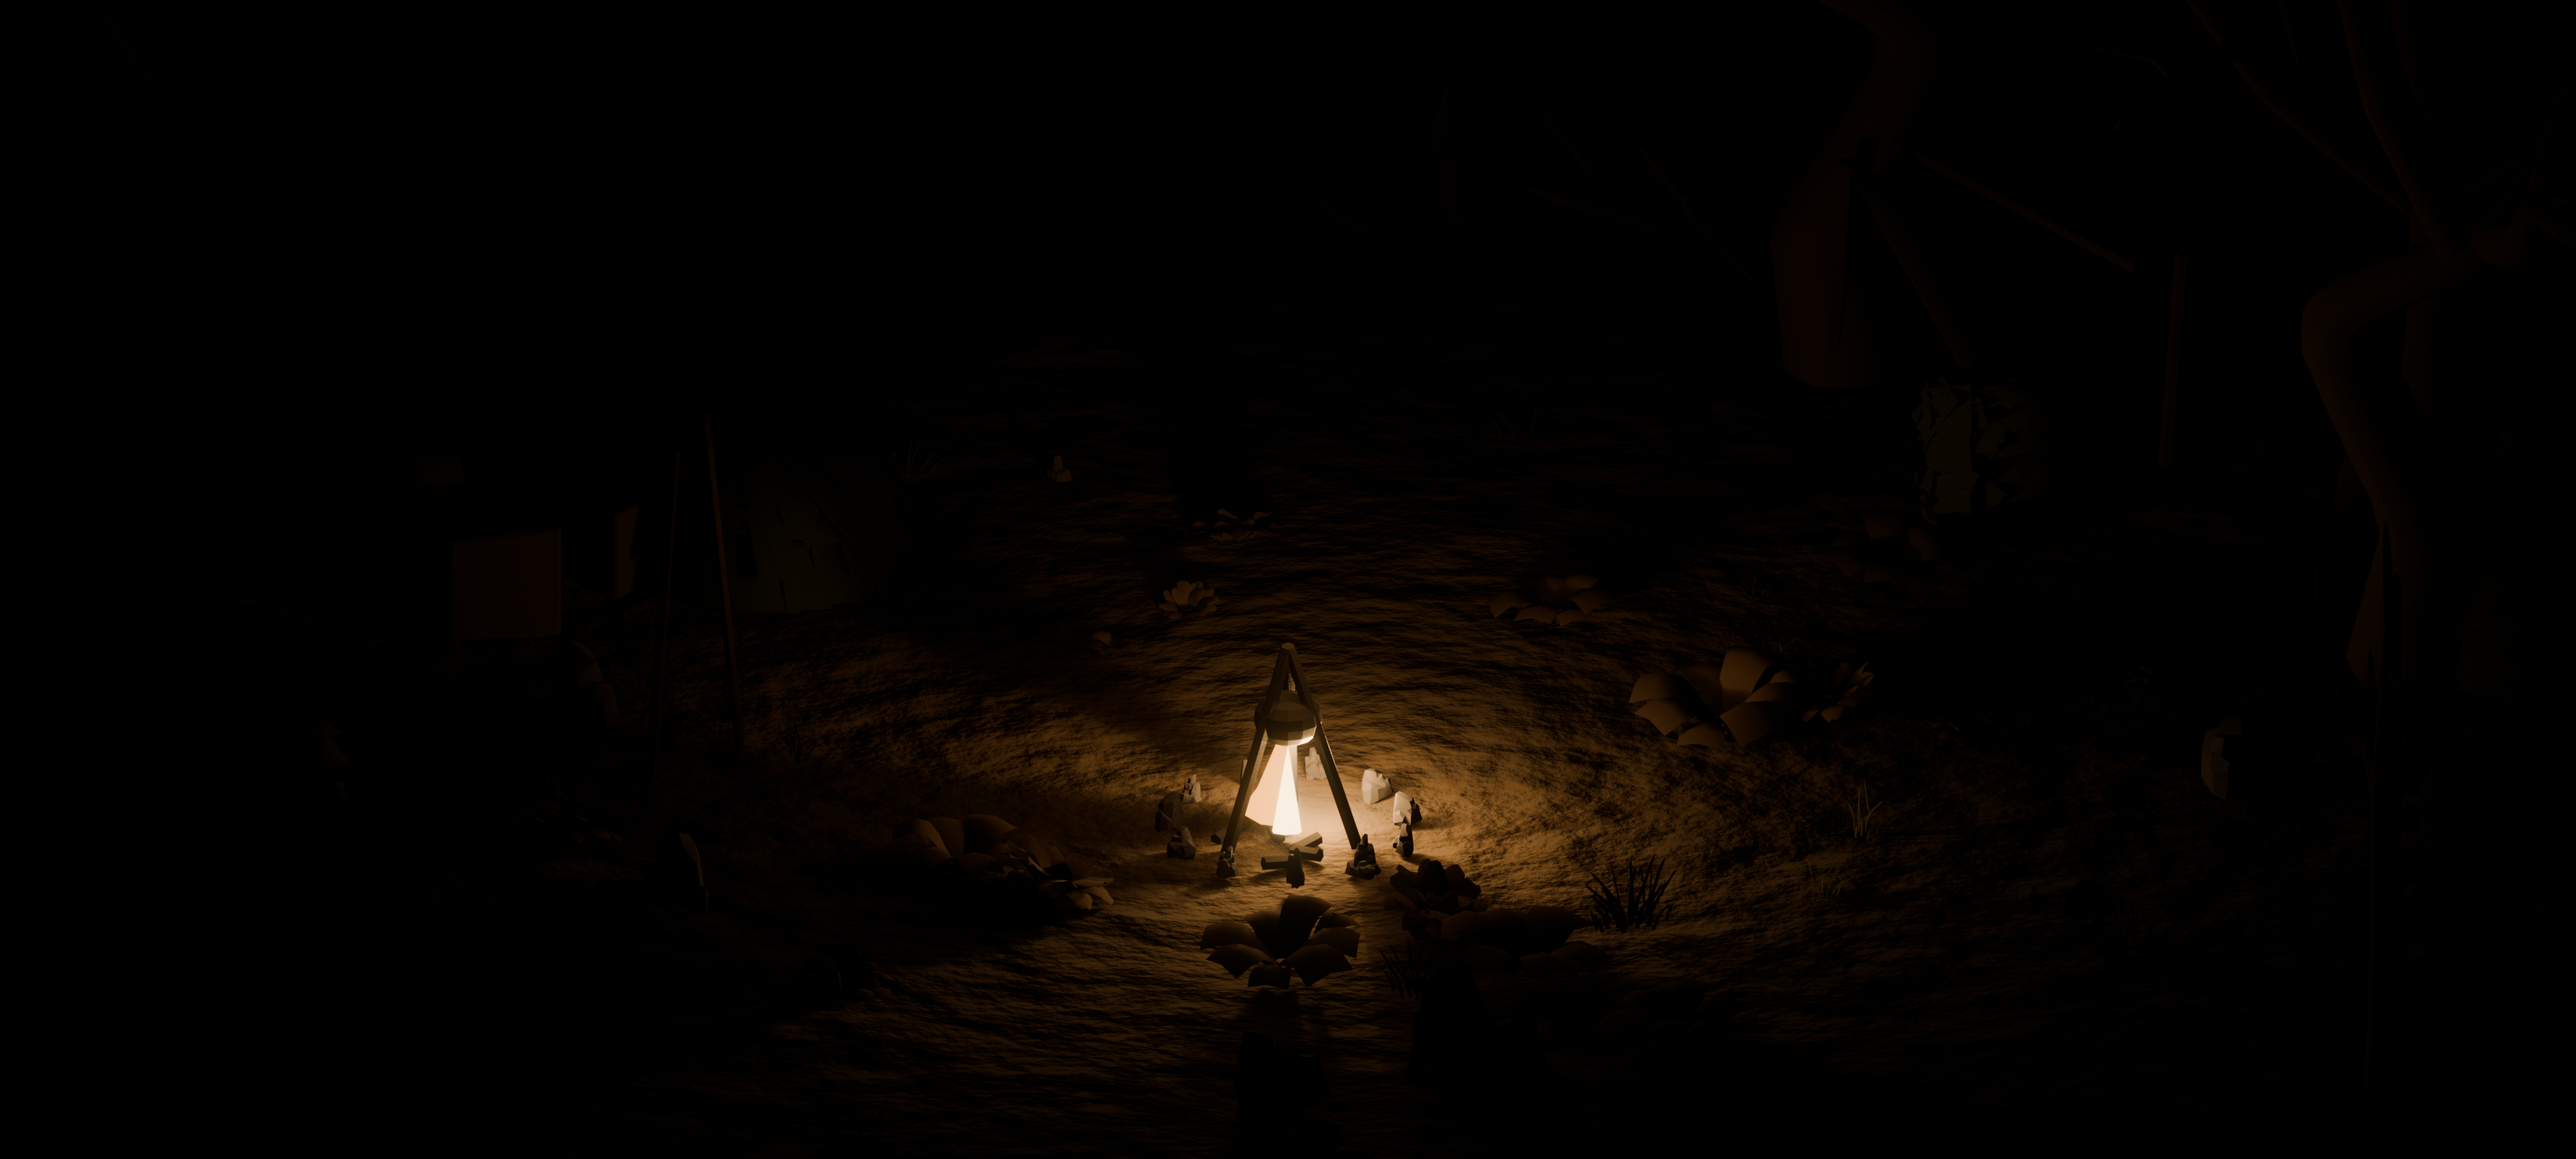
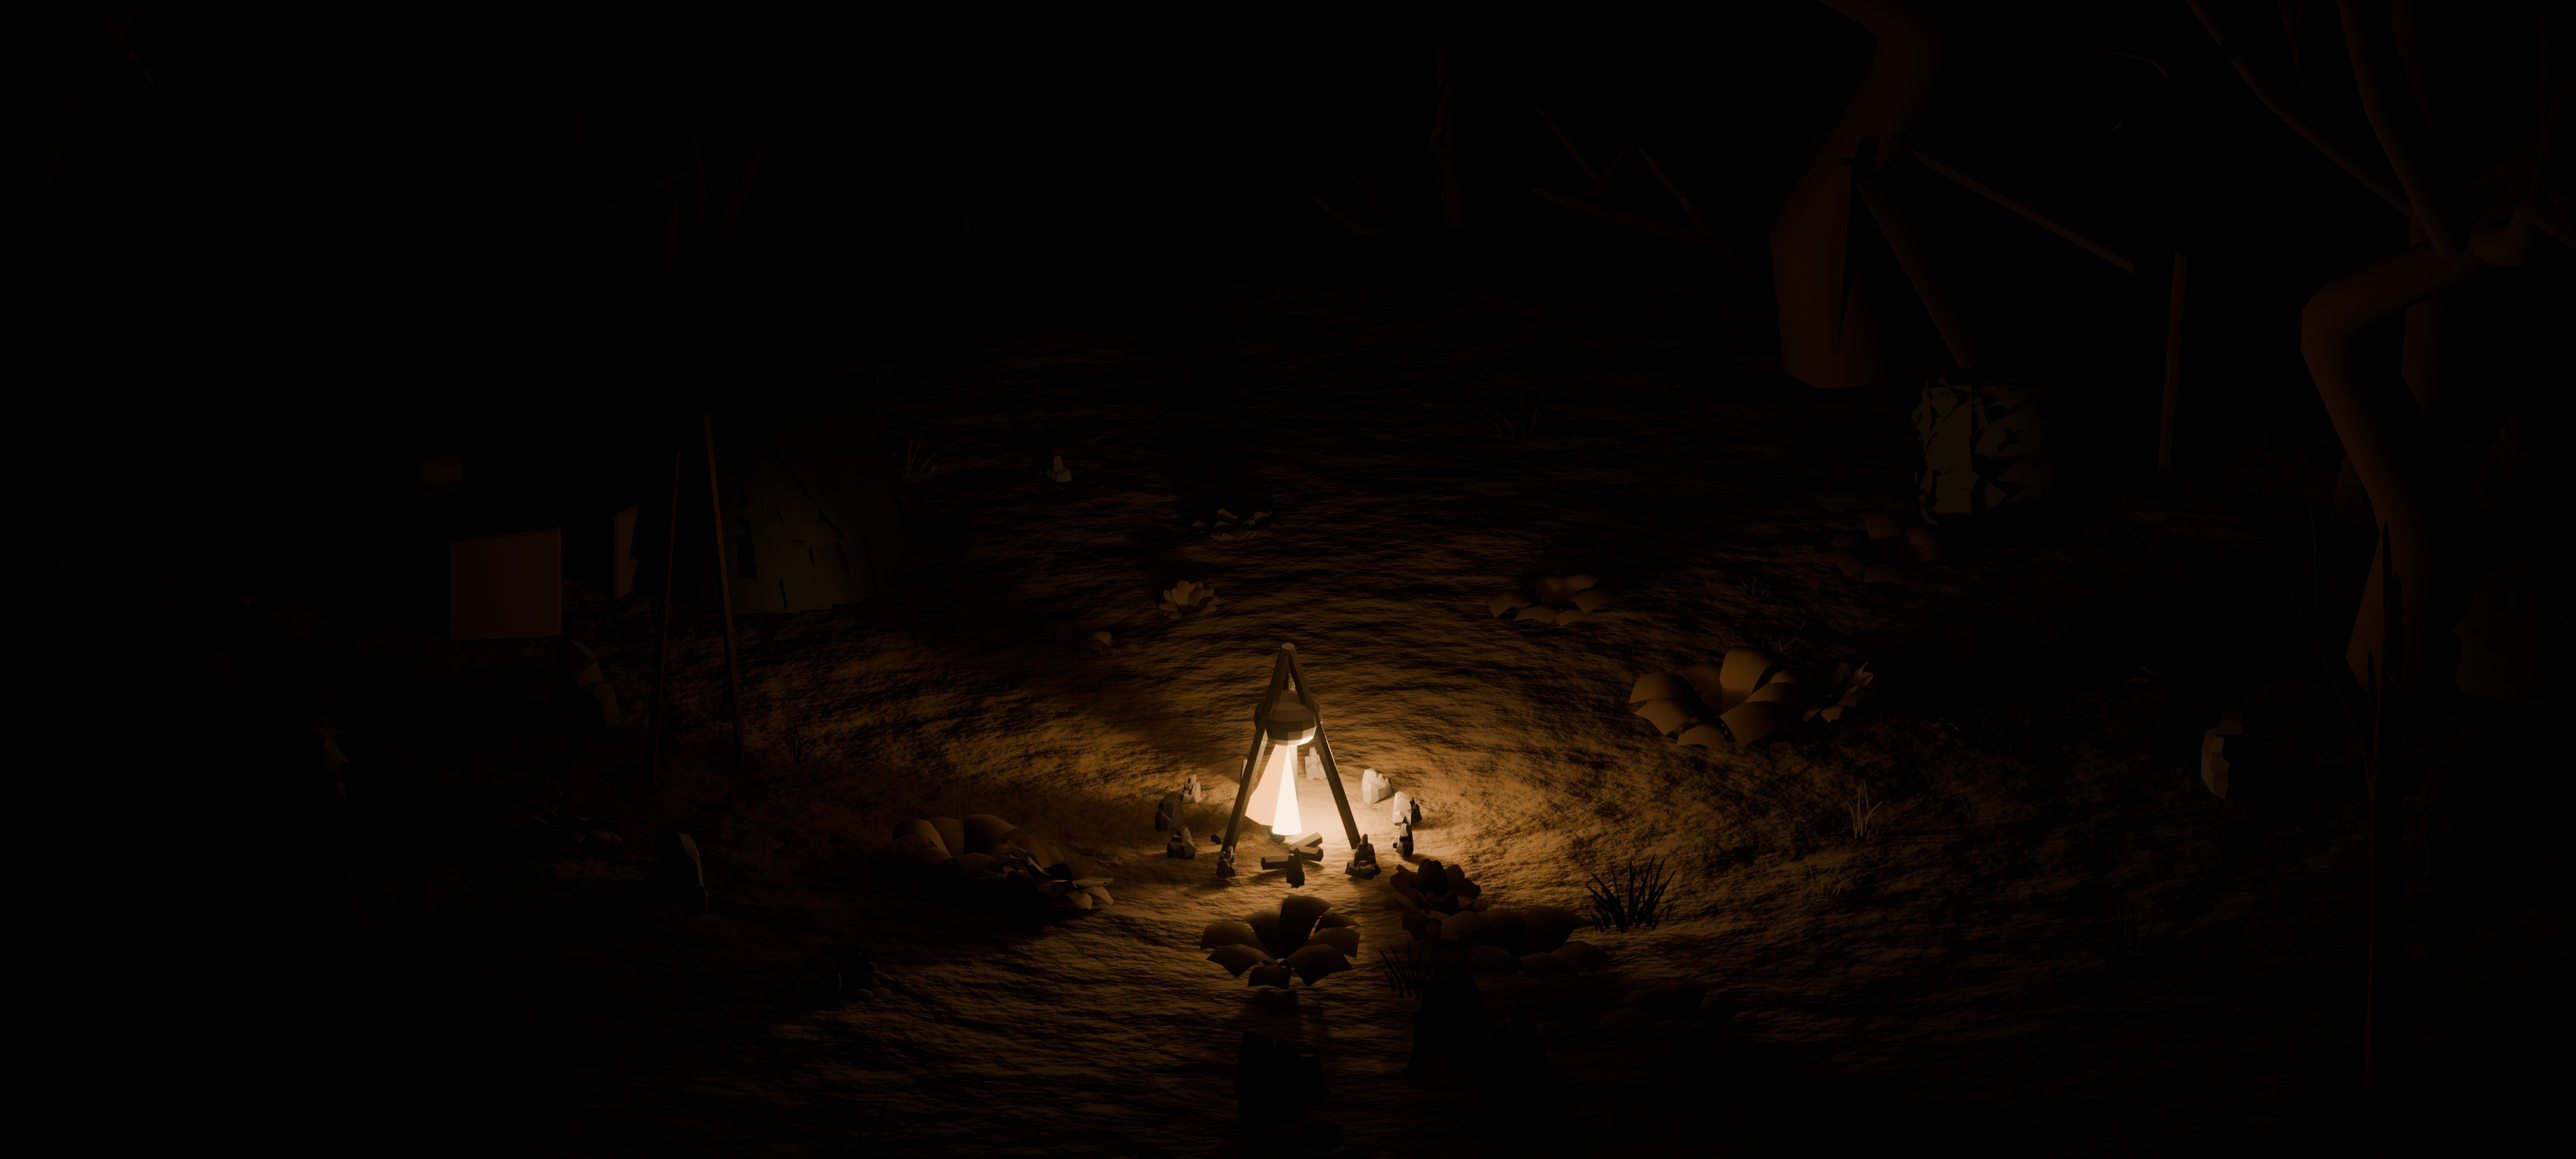
Everyone at the fire looks up, and the fire is the light again
**Three-quarters on, not in profile.** Every doll in this game bakes as one flat
side view, because that is what the road needs: a profile it can mirror for
facing. A camp is not a road. Nobody is walking, the screen exists to be looked
at, and four profiles round a fire are four people ignoring each other and the
player both. `--yaw -45` on every camp bake turns them towards the camera far
enough to be looked at and not so far that a two-handed blade goes edge-on and
vanishes. The mirror still applies, so the two on the fire's right are turned
the other way and both halves face out.

**And baked at `fh 300`, up from 210.** The camp draws a figure near 300 pixels
tall, so every sheet was being magnified by half again — soft in the one place
the player looks hardest. 300 is as far as it goes with the variation idle's 45
cells still inside the 16k texture width a browser will hold: cells come down
from 420 to 350 wide, which the three-quarter pose fits with room to spare
because a sword held across the body is narrower than one held out from it.

**The fire is the key light and the moon is an accent.** The suns have come down
in four steps and every one of them was correcting a different mistake: 3.10
while the base plate was invisible, 1.95 once it wasn't, 1.05 for a sky with the
sunrise taken out of it, and 0.52 now to stop the moon competing with the fire
for the foreground. The fire goes up to compensate, so the clearing is lit by
[…]

Changed region(s): [[0.4688, 0.625, 0.625, 0.8125], [0.4375, 0.6562, 0.4688, 0.6875]]

diff --git a/js/render.js b/js/render.js
@@ -1248,13 +1248,22 @@ export const DOLL_CAMP = {
   // the cycle cuts the standing idle off mid-breath.
   a: { src: 'art/knight-camp.png', cols: 24 },
   b: { src: 'art/knight-camp2.png', cols: 45 },
-  rows: 5, fps: 12, breakAt: 4,
+  rows: 5, fps: 12, breakAt: 4, yaw: -45,
   // **The height the doll was baked at**, and the only honest ruler for it.
   // Cells are trimmed to their content by `sliceGrid`, so cell height tracks
   // the *pose* — a raised sword makes a taller cell — and scaling by it shrank
   // the hero every time he lifted his weapon. Both sheets are baked at the
   // same `--fh`, so this one number sizes every frame of both identically.
-  fh: 210,
+  // **300, and baked three-quarters on.** Two changes that had to happen
+  // together. The camp draws a figure near 300 pixels tall and this was 210, so
+  // every sheet was being magnified by half again — soft in exactly the place
+  // the player is looking hardest. And the doll baked in strict profile,
+  // because that is what the *road* needs: one side view it can mirror for
+  // facing. A camp is not a road. Nobody is walking, and a row of profiles at a
+  // fire is four people ignoring each other. `--yaw -45` turns them towards the
+  // camera far enough to be looked at and not so far that the blade disappears
+  // edge-on. See the bake commands in ART-BRIEF and ontology.
+  fh: 300,
 };
 
 

diff --git a/js/entities.js b/js/entities.js
@@ -68,13 +68,13 @@ export const CLASSES = [
   // 320 is as far as it goes while 24 cells still fit inside the 16k texture
   // width a browser will hold.
   { key: 'paladin', name: 'Paladin', sheet: 'art/Pixel-Paladin.png', ready: true,
-    camp: { a: { src: 'art/paladin-camp.png', cols: 24 }, rows: 1, fps: 12, breakAt: 2, fh: 320 },
+    camp: { a: { src: 'art/paladin-camp.png', cols: 24 }, rows: 1, fps: 12, breakAt: 2, fh: 300 },
     blurb: 'Holds the line and mends it.' },
   { key: 'warlock', name: 'Warlock', sheet: 'art/Pixel-Warlock.png',
-    camp: { a: { src: 'art/warlock-camp.png', cols: 24 }, rows: 1, fps: 12, breakAt: 2, fh: 320 },
+    camp: { a: { src: 'art/warlock-camp.png', cols: 24 }, rows: 1, fps: 12, breakAt: 2, fh: 300 },
     blurb: 'Spends life to spend the dead.' },
   { key: 'druid',   name: 'Druid',   sheet: 'art/Pixel-Druid.png',
-    camp: { a: { src: 'art/druid-camp.png', cols: 24 }, rows: 1, fps: 12, breakAt: 2, fh: 320 },
+    camp: { a: { src: 'art/druid-camp.png', cols: 24 }, rows: 1, fps: 12, breakAt: 2, fh: 300 },
     blurb: 'Brings the wood in with them.' },
 ];
 

diff --git a/tools/bake-camp.py b/tools/bake-camp.py
@@ -381,8 +381,8 @@ def fire():
     # clearing is lit at all. One light strong enough to reach the treeline burns
     # the fire ring out entirely — measured on the first pass, where the stones
     # came back white.
-    for z, energy, radius, colour in ((0.42, 165.0, 0.14, (1.0, 0.58, 0.24)),
-                                      (1.30, 70.0, 1.10, (1.0, 0.50, 0.20))):
+    for z, energy, radius, colour in ((0.42, 240.0, 0.14, (1.0, 0.57, 0.23)),
+                                      (1.30, 105.0, 1.10, (1.0, 0.49, 0.19))):
         l = bpy.data.lights.new('fire', 'POINT')
         l.energy, l.color, l.shadow_soft_size = energy * LIGHT, colour, radius
         ob = bpy.data.objects.new('fire', l)
@@ -712,9 +712,15 @@ def lights():
     # against a sky with a sunrise in it. Moonlight at one in the morning shows
     # you the shape of the treeline and the colour of nothing; anything brighter
     # and the frame reads as an hour before dawn, which is a different scene.
-    for pos, energy, colour in (((3, -3, 5), 1.05, (0.46, 0.57, 0.92)),
-                                ((-3, -2, 1), 0.30, (0.32, 0.41, 0.70)),
-                                ((-2, 2, 2), 0.58, (0.42, 0.52, 0.84))):
+    # **An accent, not a key.** The fire is the light in this picture and the
+    # moon is what proves the rest of the world is still there — a rim on the
+    # crest, a cold edge on the treeline, nothing in the clearing that the fire
+    # has not put there. Every drop in these numbers has been a drop: 3.10 while
+    # the base plate was invisible, 1.95 once it was not, 1.05 for a sky with
+    # the sunrise taken out of it, and 0.52 to stop it competing with the fire.
+    for pos, energy, colour in (((3, -3, 5), 0.52, (0.44, 0.56, 0.94)),
+                                ((-3, -2, 1), 0.13, (0.30, 0.40, 0.72)),
+                                ((-2, 2, 2), 0.30, (0.40, 0.51, 0.86))):
         l = bpy.data.lights.new('l', 'SUN')
         l.energy, l.color, l.angle = energy * LIGHT, colour, math.radians(6)
         ob = bpy.data.objects.new('l', l)
